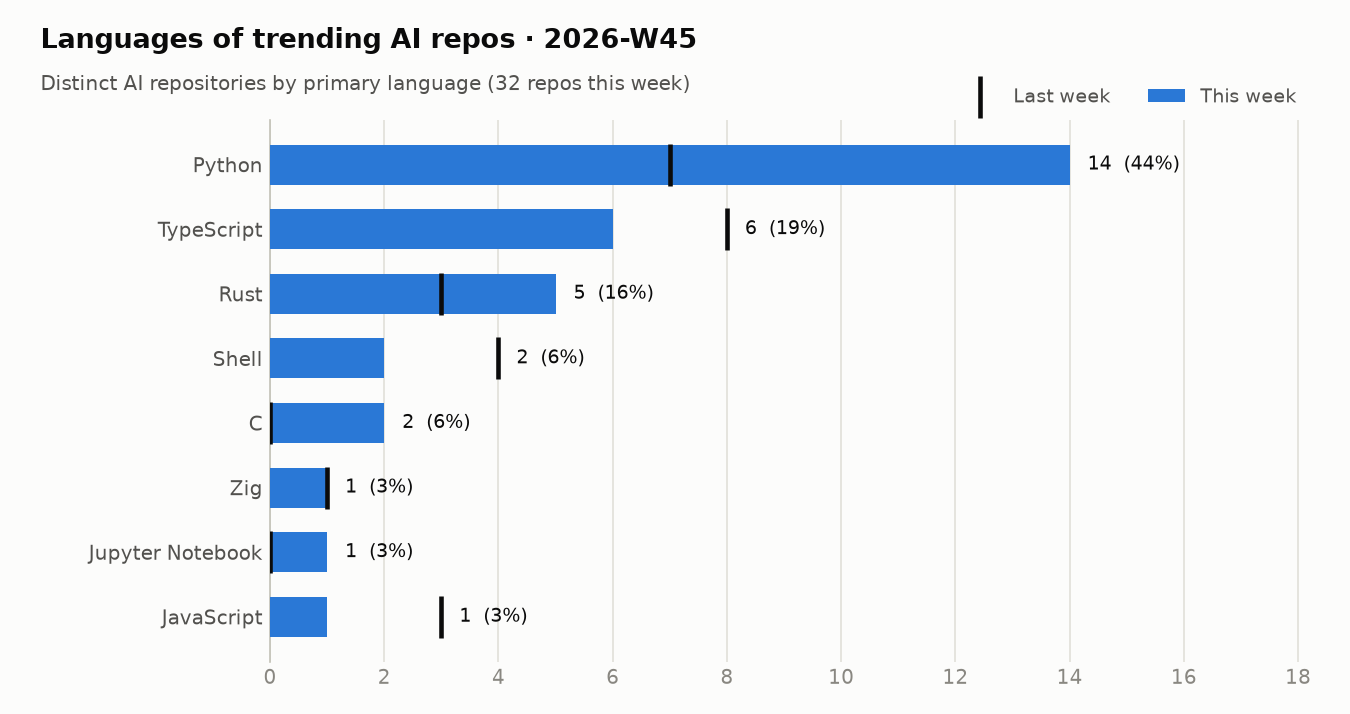
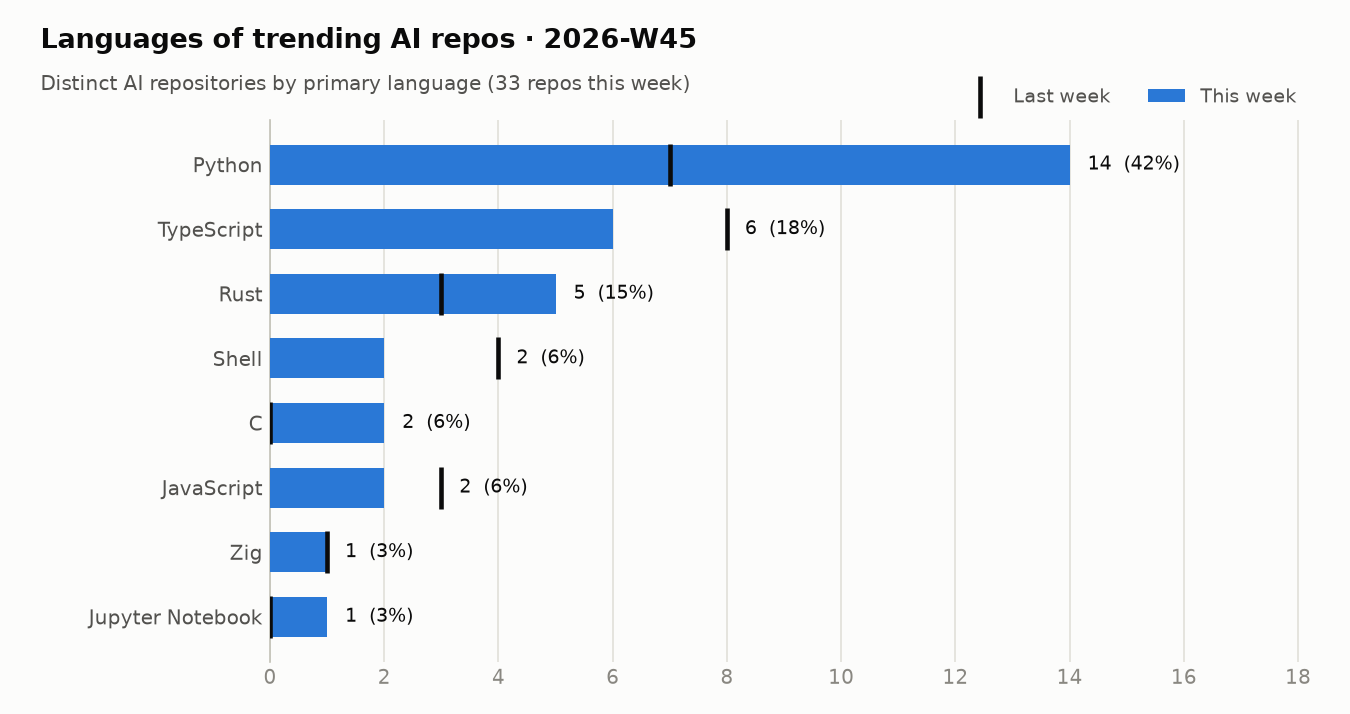
trending: snapshot 2026-11-07

diff --git a/README.md b/README.md
@@ -7,32 +7,24 @@ Every morning a GitHub Actions workflow reads the GitHub trending page, looks up
 ## Live view
 
 <!-- TRACKER_START -->
-### 🔥 AI repos trending today · 2026-11-06
+### 🔥 AI repos trending today · 2026-11-07
 
-12 of 15 trending repositories are AI-related.
+4 of 18 trending repositories are AI-related.
 
 | # | Repo | Language | ⭐ today | ⭐ total | Topics |
 |--:|---|---|--:|--:|---|
-| 1 | [NVIDIA/auto-ontology](https://github.com/NVIDIA/auto-ontology)<br><sub>Star NVIDIA / auto-ontology Auto Ontology is a Python framework for building semantic, gra…</sub> | Python | 2,679 | 8,076 | – |
-| 2 | [mattpocock/skills](https://github.com/mattpocock/skills)<br><sub>Sponsor Star mattpocock / skills Skills for Real Engineers. Straight from my .agents direc…</sub> | Shell | 2,071 | 315,923 | – |
-| 3 | [garrytan/gstack](https://github.com/garrytan/gstack)<br><sub>Star garrytan / gstack Use Garry Tan's exact Claude Code setup: 23 opinionated tools that …</sub> | TypeScript | 612 | 140,235 | – |
-| 4 | [Usagi-org/ai-goofish-monitor](https://github.com/Usagi-org/ai-goofish-monitor)<br><sub>Star Usagi-org / ai-goofish-monitor 基于 Playwright 和AI实现的闲鱼多任务实时/定时监控与智能分析系统，配备了功能完善的后台管理UI…</sub> | Python | 240 | 18,062 | `ai` `ai-assistant` `ai-tools` `automation` |
-| 5 | [D4Vinci/Scrapling](https://github.com/D4Vinci/Scrapling)<br><sub>Sponsor Star D4Vinci / Scrapling 🕷 The BEST Web Scraping framework that handles everythin…</sub> | Python | 1,655 | 98,457 | `ai` `ai-scraping` `automation` `crawler` |
-| 6 | [vercel-labs/agent-desktop](https://github.com/vercel-labs/agent-desktop)<br><sub>Star vercel-labs / agent-desktop Computer use CLI for AI agents</sub> | Rust | 2,173 | 17,503 | `accessibility` `accessibility-api` `ai-agents` `automation` |
-| 7 | [max-sixty/worktrunk](https://github.com/max-sixty/worktrunk)<br><sub>Star max-sixty / worktrunk Worktrunk is a CLI for Git worktree management, designed for pa…</sub> | Rust | 546 | 11,684 | `agents` `claude-code` `codex` `developer-tools` |
-| 9 | [google/skills](https://github.com/google/skills)<br><sub>Star google / skills Agent Skills for Google products and technologies</sub> | Python | 211 | 22,567 | `google` `googlecloud` `skills` |
-| 10 | [vercel-labs/agent-browser](https://github.com/vercel-labs/agent-browser)<br><sub>Star vercel-labs / agent-browser Browser automation CLI for AI agents</sub> | Rust | 150 | 46,163 | – |
-| 11 | [scenario-labs/skills](https://github.com/scenario-labs/skills)<br><sub>Star scenario-labs / skills Get production-ready images, video, audio, and 3D from any AI …</sub> | Python | 667 | 3,286 | `3d-models` `agent-skills` `ai-agents` `ai-art` |
-| 12 | [ConardLi/garden-skills](https://github.com/ConardLi/garden-skills)<br><sub>Star ConardLi / garden-skills ConardLi's open-source Skills collection, featuring web desi…</sub> | JavaScript | 175 | 14,390 | `agent` `claude` `gpt-image-2` `rag` |
-| 13 | [microsoft/VibeVoice](https://github.com/microsoft/VibeVoice)<br><sub>Star microsoft / VibeVoice Open-Source Frontier Voice AI</sub> | Python | 223 | 56,302 | – |
+| 2 | [NVIDIA/auto-ontology](https://github.com/NVIDIA/auto-ontology)<br><sub>Star NVIDIA / auto-ontology Auto Ontology is a Python framework for building semantic, gra…</sub> | Python | 2,015 | 9,453 | – |
+| 10 | [google/skills](https://github.com/google/skills)<br><sub>Star google / skills Agent Skills for Google products and technologies</sub> | Python | 534 | 22,988 | `google` `googlecloud` `skills` |
+| 16 | [mattpocock/skills](https://github.com/mattpocock/skills)<br><sub>Sponsor Star mattpocock / skills Skills for Real Engineers. Straight from my .agents direc…</sub> | Shell | 2,070 | 317,022 | – |
+| 17 | [cloudflare/security-audit-skill](https://github.com/cloudflare/security-audit-skill)<br><sub>Star cloudflare / security-audit-skill A coding-agent skill for multi-phase security audit…</sub> | JavaScript | 2,548 | 64,548 | – |
 
 ### 📊 This week so far · 2026-W45
 
 #### Summary
 
-- **32** distinct AI repos trended over 5 day(s) (last week: 30)
-- AI share of all trending slots: **76%** (-6 pts vs last week)
-- Dominant language: **Python** (44% of AI repos)
+- **33** distinct AI repos trended over 6 day(s) (last week: 30)
+- AI share of all trending slots: **66%** (-17 pts vs last week)
+- Dominant language: **Python** (42% of AI repos)
 - Rising topics: `mcp` (+3), `transformer` (+3), `accessibility` (+2), `agents` (+2), `automation` (+2)
 - New this week: `transformer`, `accessibility`, `model-context-protocol`, `agents`, `moe`, `workflow-automation`
 
@@ -42,14 +34,14 @@ Every morning a GitHub Actions workflow reads the GitHub trending page, looks up
 
 | Language | Repos | Share | Last week |
 |---|--:|--:|--:|
-| Python | 14 | 44% | 7 |
-| TypeScript | 6 | 19% | 8 |
-| Rust | 5 | 16% | 3 |
+| Python | 14 | 42% | 7 |
+| TypeScript | 6 | 18% | 8 |
+| Rust | 5 | 15% | 3 |
 | Shell | 2 | 6% | 4 |
 | C | 2 | 6% | 0 |
+| JavaScript | 2 | 6% | 3 |
 | Zig | 1 | 3% | 1 |
 | Jupyter Notebook | 1 | 3% | 0 |
-| JavaScript | 1 | 3% | 3 |
 
 #### Topics
 
@@ -74,20 +66,20 @@ Every morning a GitHub Actions workflow reads the GitHub trending page, looks up
 
 | Repo | Language | Days trending | Stars gained | Total stars |
 |---|---|--:|--:|--:|
+| [mattpocock/skills](https://github.com/mattpocock/skills) | Shell | 5 | 7,542 | 317,022 |
 | [vercel-labs/agent-desktop](https://github.com/vercel-labs/agent-desktop) | Rust | 4 | 10,709 | 17,503 |
 | [D4Vinci/Scrapling](https://github.com/D4Vinci/Scrapling) | Python | 4 | 6,024 | 98,457 |
 | [thedotmack/claude-mem](https://github.com/thedotmack/claude-mem) | TypeScript | 4 | 5,640 | 113,191 |
-| [mattpocock/skills](https://github.com/mattpocock/skills) | Shell | 4 | 5,472 | 315,923 |
 | [max-sixty/worktrunk](https://github.com/max-sixty/worktrunk) | Rust | 4 | 1,592 | 11,684 |
+| [NVIDIA/auto-ontology](https://github.com/NVIDIA/auto-ontology) | Python | 3 | 6,744 | 9,453 |
 | [Donchitos/Claude-Code-Game-Studios](https://github.com/Donchitos/Claude-Code-Game-Studios) | Shell | 3 | 3,528 | 35,031 |
-| [NVIDIA/auto-ontology](https://github.com/NVIDIA/auto-ontology) | Python | 2 | 4,729 | 8,076 |
 | [anomalyco/hex](https://github.com/anomalyco/hex) | Rust | 2 | 1,589 | 4,809 |
 | [p-e-w/heretic](https://github.com/p-e-w/heretic) | Python | 2 | 1,121 | 39,063 |
 | [garrytan/gstack](https://github.com/garrytan/gstack) | TypeScript | 2 | 902 | 140,235 |
 
 ➡ Last full weekly analysis: [2026-W44](reports/weekly/2026-W44.md) · [all reports](reports/weekly)
 
-_Tracking since 2026-10-01 · 37 day(s) of data · [raw data](data/trending.csv)_
+_Tracking since 2026-10-01 · 38 day(s) of data · [raw data](data/trending.csv)_
 <!-- TRACKER_END -->
 
 ## How it works
